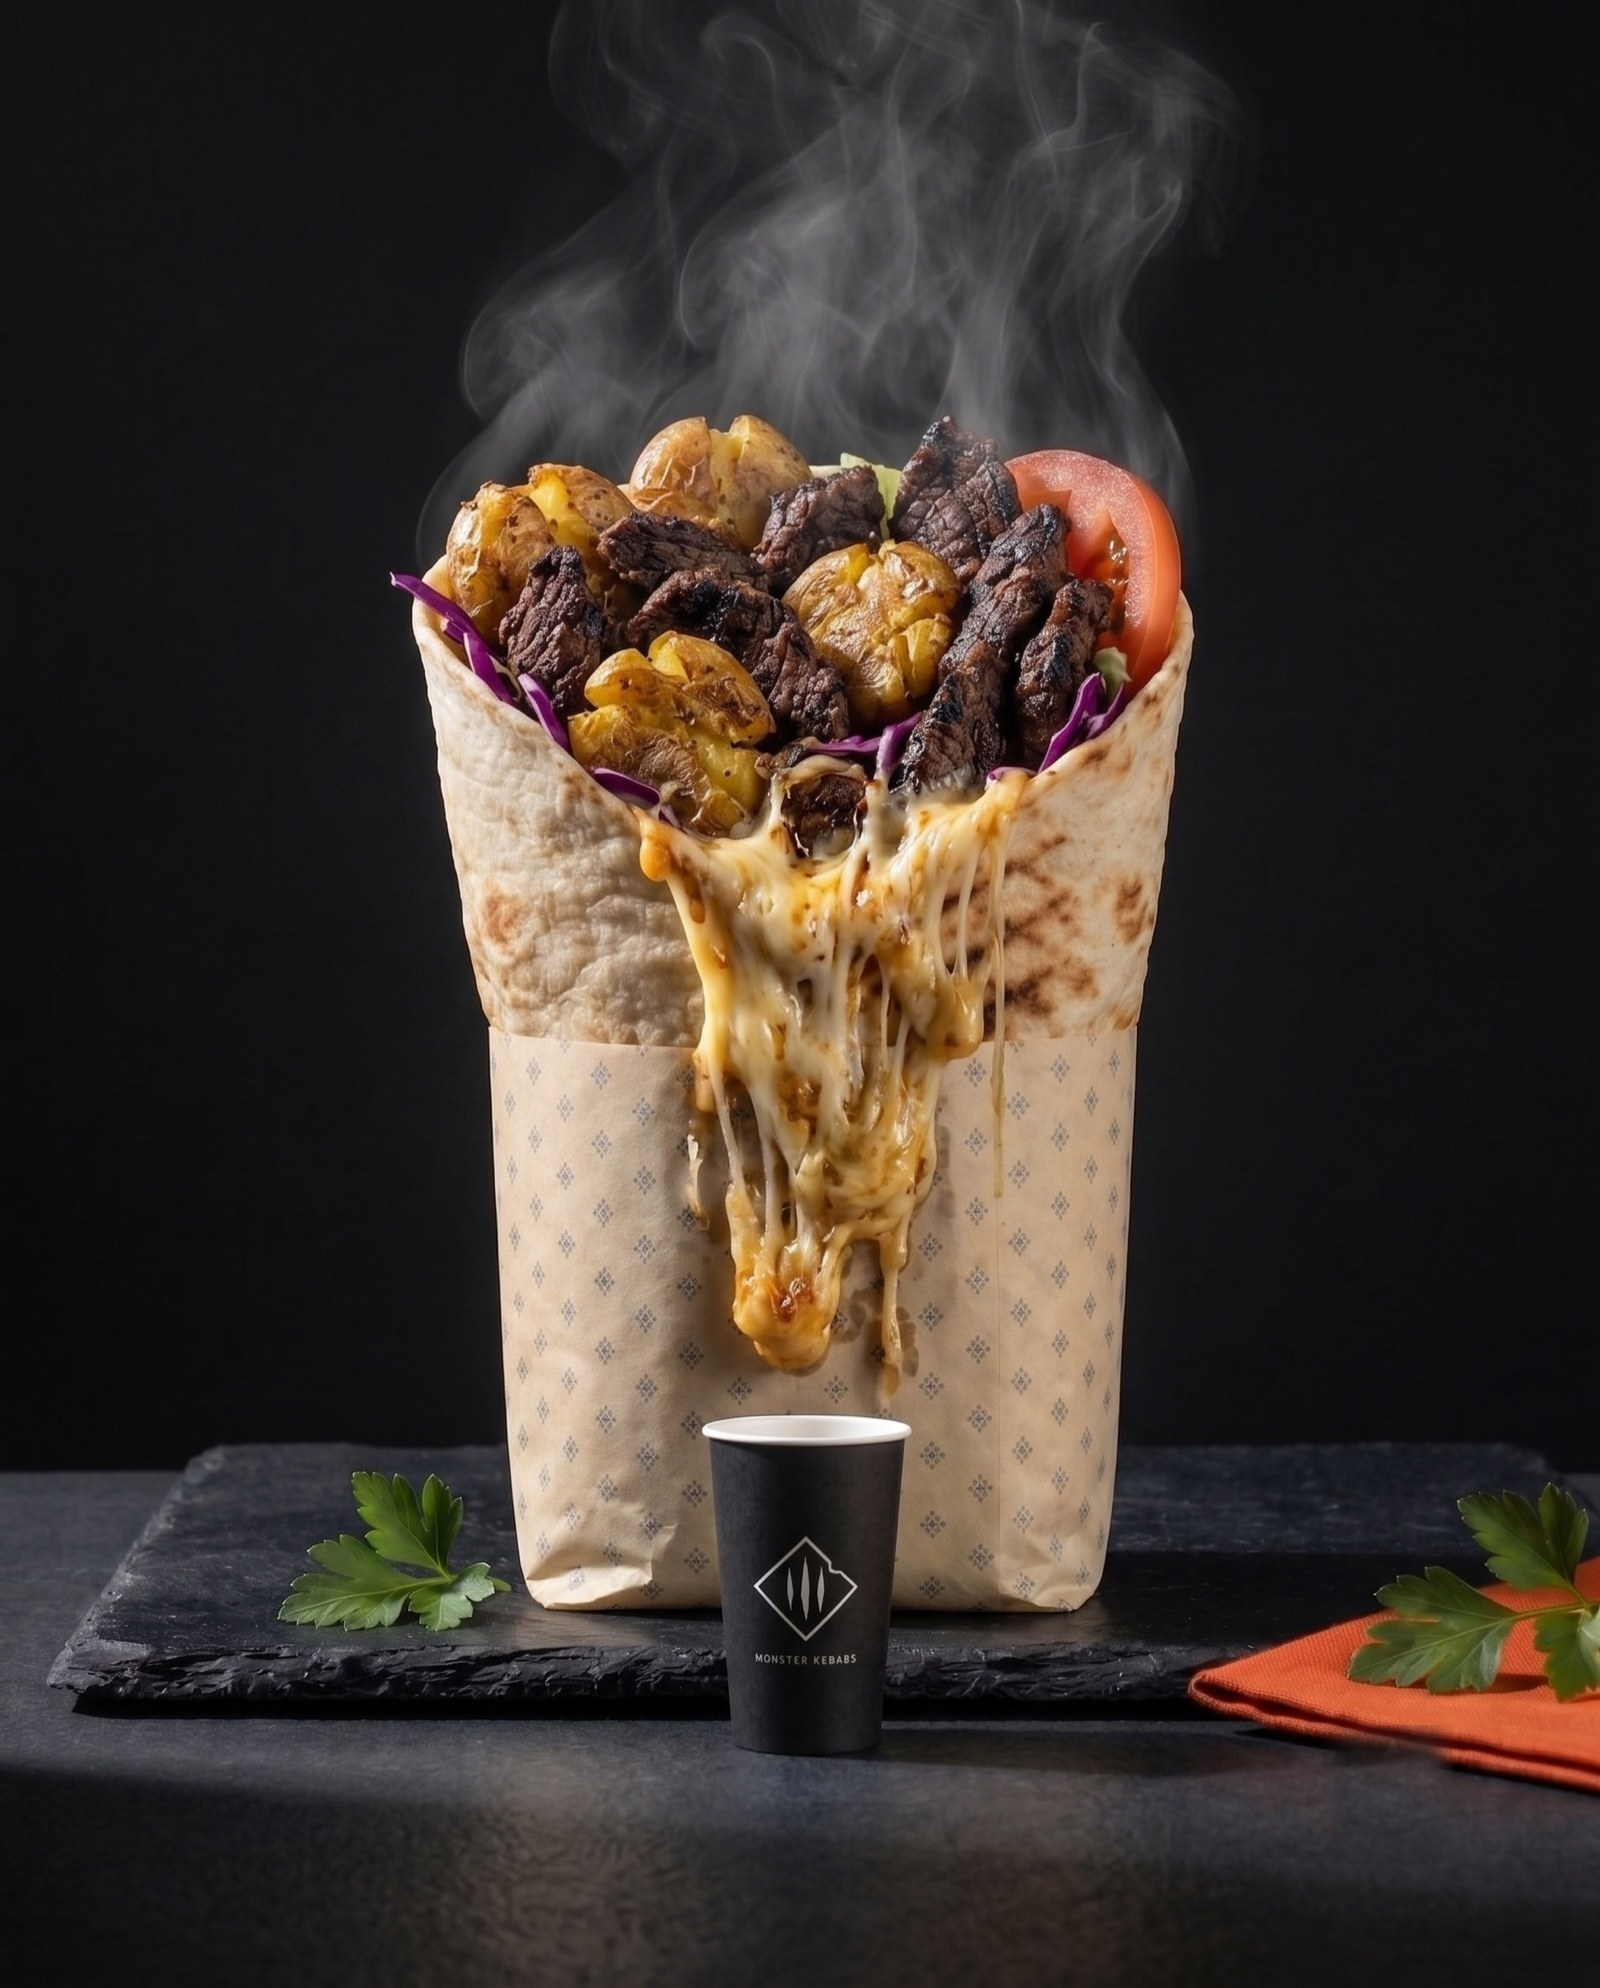
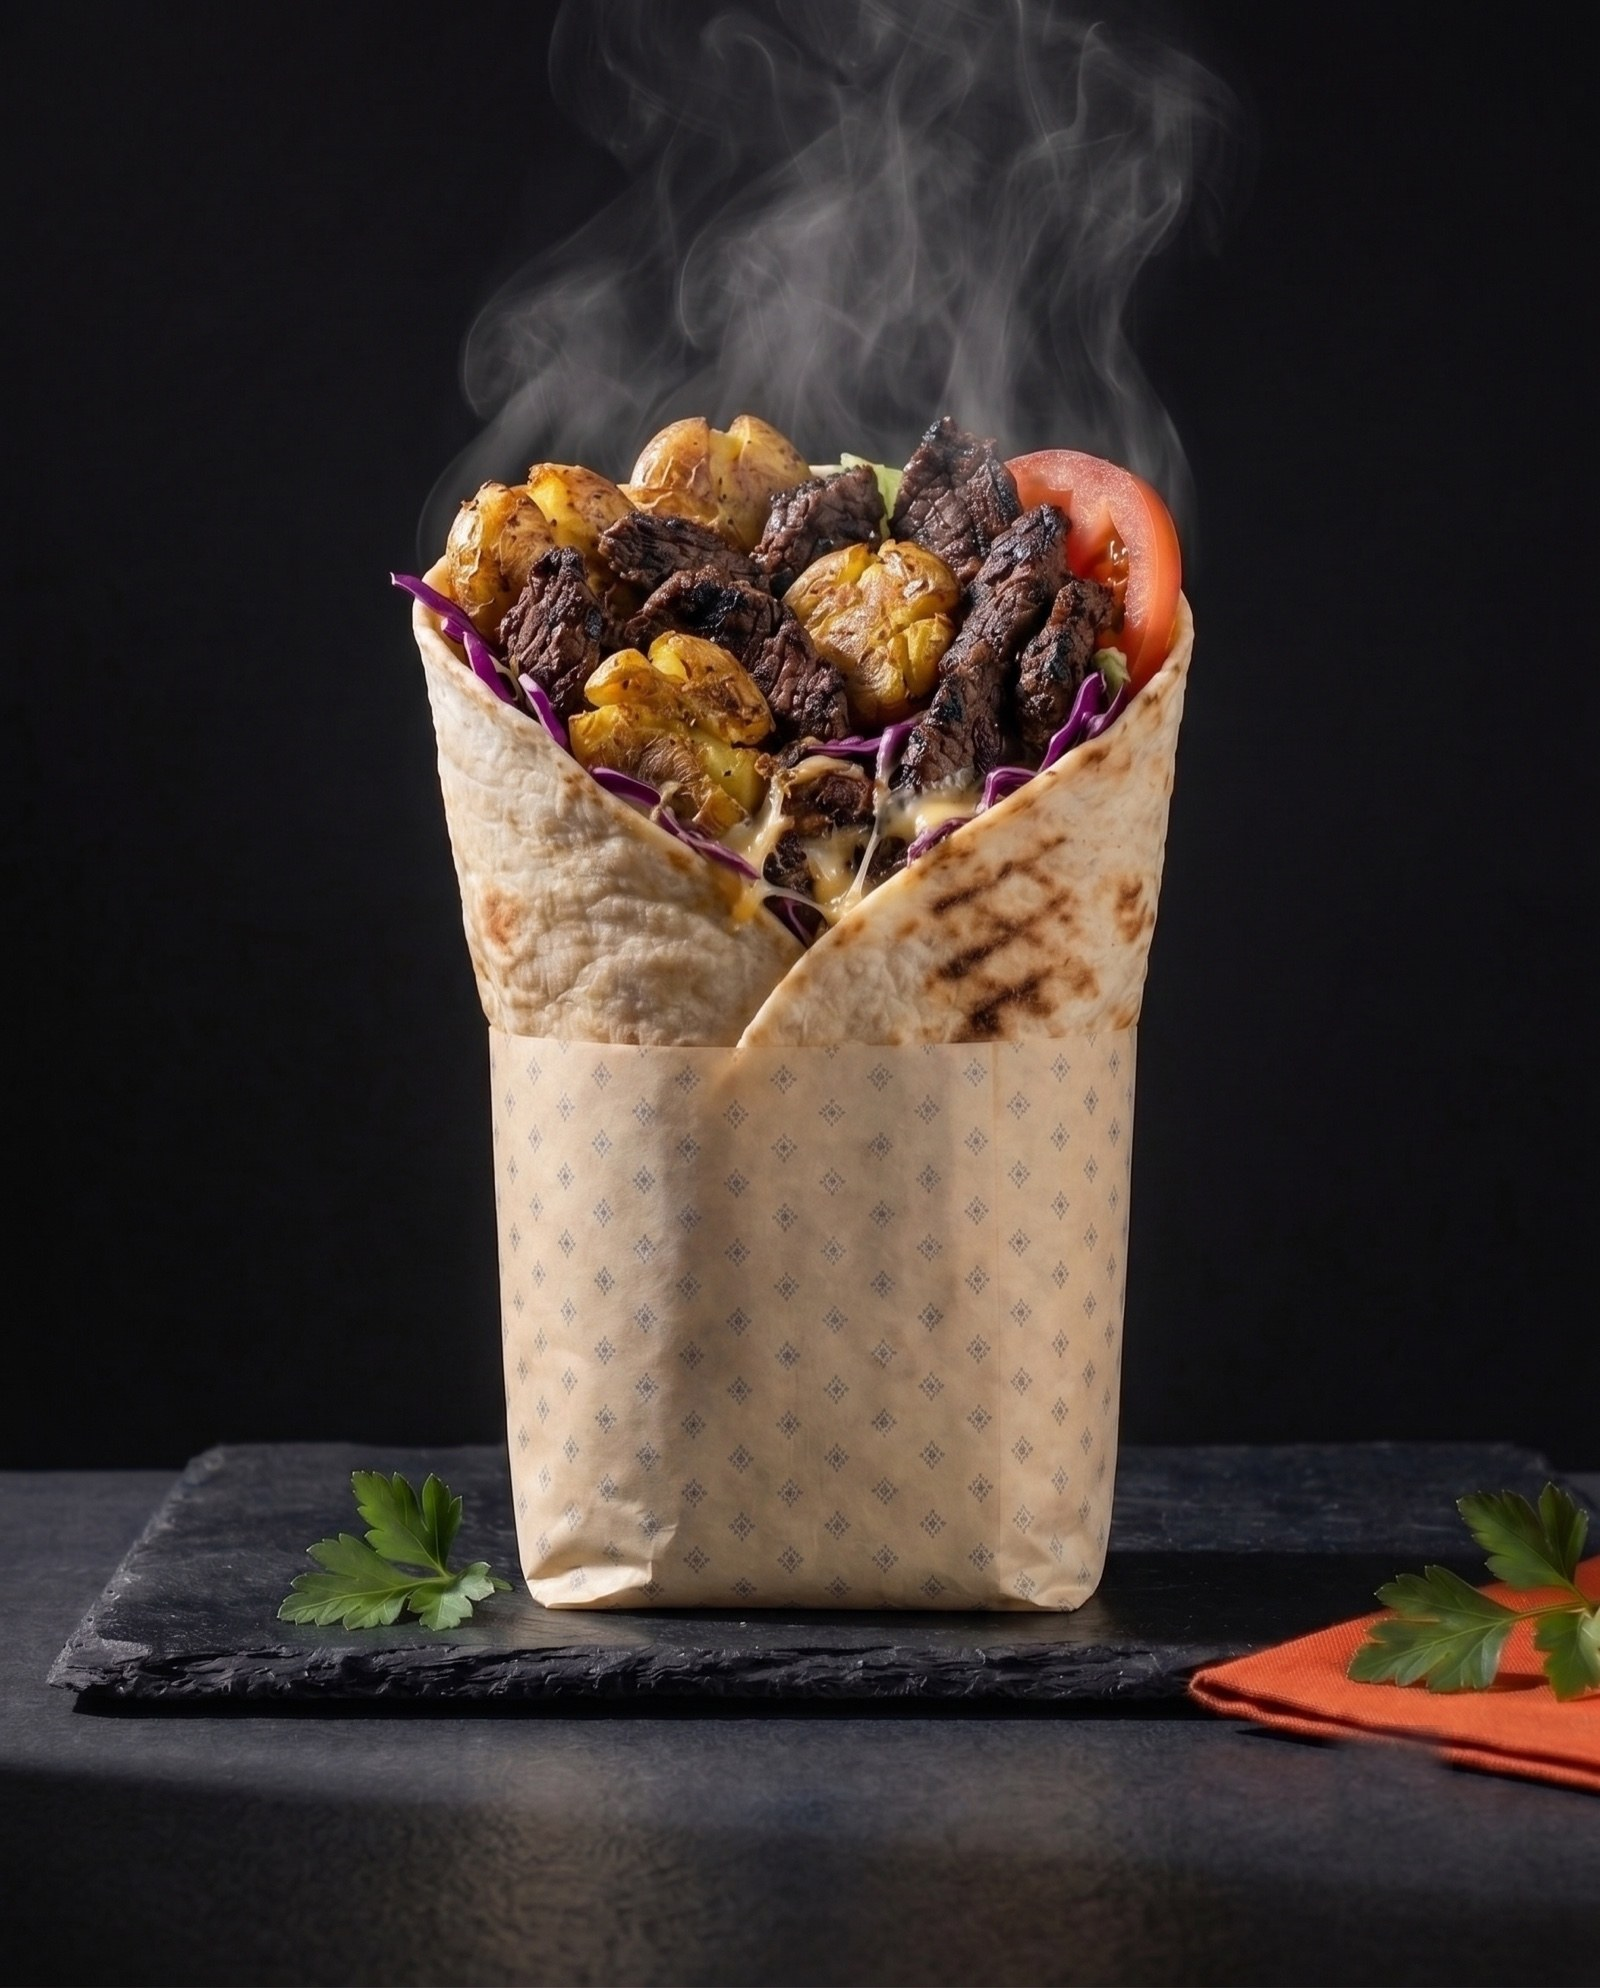
Alpha sin vaso y menos queso, Doble Filo salsa leve, 3 salsas con foto propia, Limonada Negra -> TINTA

diff --git a/menu-mesa.html b/menu-mesa.html
@@ -90,7 +90,8 @@
   /* SALSAS */
   .salsas{display:grid;grid-template-columns:repeat(3,1fr);gap:1px;background:var(--line);border:1px solid var(--line);margin-top:16px}
   .salsas-nota{font-family:'IBM Plex Mono',monospace;font-size:9px;letter-spacing:.14em;color:var(--ember);text-transform:uppercase;margin-top:10px}
-  .salsa{background:var(--tinta);padding:18px 20px;text-align:center}
+  .salsa{background:var(--tinta);padding:0 0 16px;text-align:center}
+  .salsa img{width:100%;aspect-ratio:4/3;object-fit:cover;display:block;margin-bottom:12px}
   .salsa .sn{font-family:'Anton',sans-serif;font-size:19px;text-transform:uppercase}
   .salsa .sl{font-family:'IBM Plex Mono',monospace;font-size:9px;letter-spacing:.14em;color:var(--ember);text-transform:uppercase;margin-top:4px}
   .salsa .sd{font-size:11.5px;color:var(--humo);margin-top:6px}
@@ -312,9 +313,9 @@
           <span>Lemon Pepper</span><span>Trufa Negra</span><span>Za'atar</span><span>Mantequilla Romero</span>
         </div>
         <div class="salsas">
-          <div class="salsa"><div class="sn">Brasa</div><div class="sl">SUAVE</div><div class="sd">para empezar</div></div>
-          <div class="salsa"><div class="sn">Garra</div><div class="sl">BRAVO</div><div class="sd">para presumir</div></div>
-          <div class="salsa diablo"><div class="sn">Modo Diablo</div><div class="sl">BAJO TU PROPIO RIESGO</div><div class="sd">la mesa reta, tú decides</div></div>
+          <div class="salsa"><img src="fotos/salsa-brasa.jpg" alt="Salsa Brasa" loading="lazy"><div class="sn">Brasa</div><div class="sl">SUAVE</div><div class="sd">para empezar</div></div>
+          <div class="salsa"><img src="fotos/salsa-garra.jpg" alt="Salsa Garra" loading="lazy"><div class="sn">Garra</div><div class="sl">BRAVO</div><div class="sd">para presumir</div></div>
+          <div class="salsa diablo"><img src="fotos/salsa-diablo.jpg" alt="Salsa Modo Diablo" loading="lazy"><div class="sn">Modo Diablo</div><div class="sl">BAJO TU PROPIO RIESGO</div><div class="sd">la mesa reta, tú decides</div></div>
         </div>
         <div class="salsas-nota">LAS 3 SALSAS VAN INCLUIDAS CON TODO PEDIDO — SIN COSTO</div>
       </div>
@@ -343,11 +344,11 @@
     <div class="m-sub">(La cerveza pídesela al mesero — de eso sabe la casa.)</div>
     <div class="beb-wrap">
       <div>
-        <div class="item"><div><div class="iname">Limonada Negra</div><div class="idesc">Carbón activado, negra azabache. Sí, es real. La vas a fotografiar.</div></div><div class="iprice">55</div></div>
+        <div class="item"><div><div class="iname">Tinta</div><div class="idesc">Limonada negra de carbón activado. Sí, es real. La vas a fotografiar.</div></div><div class="iprice">55</div></div>
         <div class="item"><div><div class="iname">Veneno</div><div class="idesc">Té helado durazno-jengibre de la casa.</div></div><div class="iprice">45</div></div>
         <div class="item"><div><div class="iname">Sangre</div><div class="idesc">Jamaica concentrada + jengibre + limón.</div></div><div class="iprice">45</div></div>
       </div>
-      <img src="fotos/limonada-negra.jpg" alt="Limonada Negra" loading="lazy">
+      <img src="fotos/limonada-negra.jpg" alt="Tinta — limonada negra" loading="lazy">
     </div>
   </div>
 
